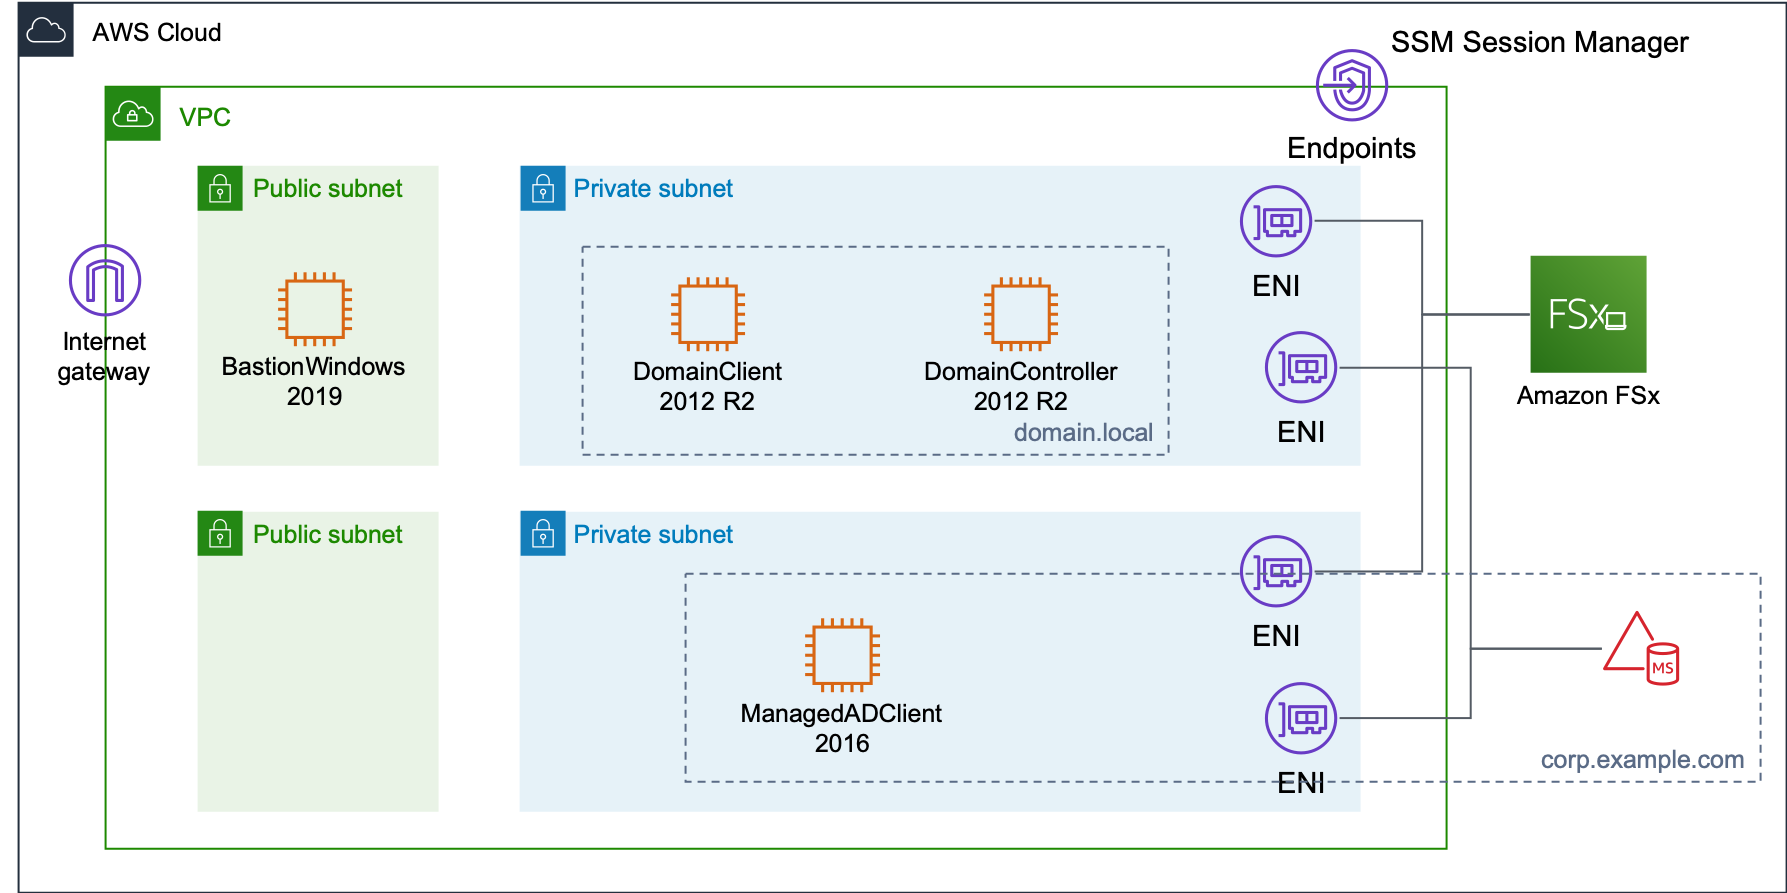
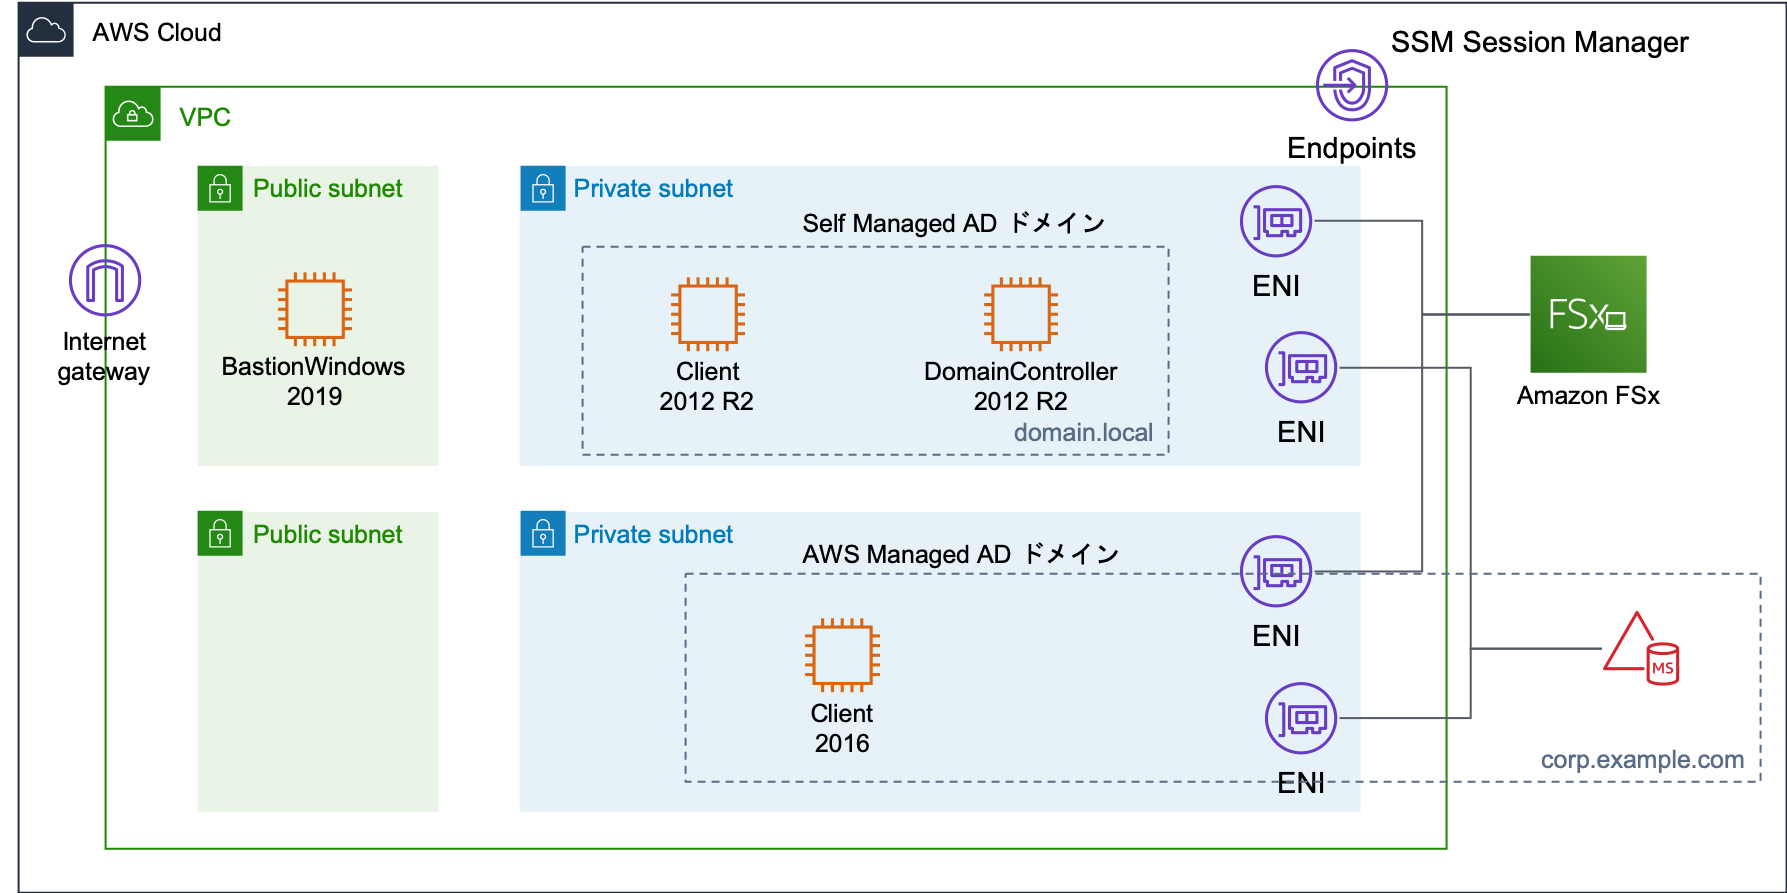
update

diff --git a/cdksample/self_managed_ad_stack.py b/cdksample/self_managed_ad_stack.py
@@ -5,7 +5,7 @@ from aws_cdk import (
 )
 
 
-class LocalDomainStack(core.Stack):
+class SelfManagedADStack(core.Stack):
 
     def __init__(self, scope: core.Construct, id: str, props, **kwargs) -> None:
         super().__init__(scope, id, **kwargs)
@@ -17,29 +17,31 @@ class LocalDomainStack(core.Stack):
         # https://docs.aws.amazon.com/cdk/api/latest/python/aws_cdk.aws_ec2/Instance.html
 
         # ドメインコントローラ用EC2ホスト
-        local_domain_controller_windows = ec2.Instance(
-            self, 'LocalDomainControllerWindows',
+        domain_controller_windows = ec2.Instance(
+            self, 'DomainControllerWindows',
             instance_type=ec2.InstanceType('t3.large'),
-            machine_image=ec2.WindowsImage(version=ec2.WindowsVersion.WINDOWS_SERVER_2012_R2_RTM_JAPANESE_64BIT_BASE),
+            machine_image=ec2.MachineImage.latest_windows(
+                version=ec2.WindowsVersion.WINDOWS_SERVER_2012_R2_RTM_JAPANESE_64BIT_BASE),
             key_name=self.node.try_get_context('key_name'),
             vpc=vpc,
             vpc_subnets=ec2.SubnetSelection(subnet_type=ec2.SubnetType.ISOLATED),
             security_group=internal_sg
         )
-        local_domain_controller_windows.role.add_managed_policy(
+        domain_controller_windows.role.add_managed_policy(
             iam.ManagedPolicy.from_aws_managed_policy_name('AmazonSSMManagedInstanceCore'))
 
         # クライアント用EC2ホスト
-        local_domain_client_windows = ec2.Instance(
-            self, 'LocalDomainClientWindows',
+        client_windows = ec2.Instance(
+            self, 'ClientWindows',
             instance_type=ec2.InstanceType('t3.large'),
-            machine_image=ec2.WindowsImage(version=ec2.WindowsVersion.WINDOWS_SERVER_2012_R2_RTM_JAPANESE_64BIT_BASE),
+            machine_image=ec2.MachineImage.latest_windows(
+                version=ec2.WindowsVersion.WINDOWS_SERVER_2012_R2_RTM_JAPANESE_64BIT_BASE),
             key_name=self.node.try_get_context('key_name'),
             vpc=vpc,
             vpc_subnets=ec2.SubnetSelection(subnet_type=ec2.SubnetType.ISOLATED),
             security_group=internal_sg
         )
-        local_domain_client_windows.role.add_managed_policy(
+        client_windows.role.add_managed_policy(
             iam.ManagedPolicy.from_aws_managed_policy_name('AmazonSSMManagedInstanceCore'))
 
         self.output_props = props.copy()

diff --git a/cdksample/self_managed_ad_fsx_stack.py b/cdksample/self_managed_ad_fsx_stack.py
@@ -5,18 +5,17 @@ from aws_cdk import (
 )
 
 
-class FSxStack(core.Stack):
+class SelfManagedADFSxStack(core.Stack):
 
     def __init__(self, scope: core.Construct, id: str, props, **kwargs) -> None:
         super().__init__(scope, id, **kwargs)
 
         vpc = props['vpc']
         internal_sg = props['internal_sg']
-        managed_ad = props['managed_ad']
 
-        # domain.localに接続するFSx
-        local_domain_fs = fsx.CfnFileSystem(
-            self, 'LocalDomainFileSystem',
+        # Self Managed ADに接続するFSx
+        self_managed_ad_fs = fsx.CfnFileSystem(
+            self, 'SelfManagedADFileSystem',
             file_system_type='WINDOWS',
             subnet_ids=vpc.select_subnets(subnet_type=ec2.SubnetType.ISOLATED).subnet_ids,
             security_group_ids=[internal_sg.security_group_id],
@@ -24,29 +23,14 @@ class FSxStack(core.Stack):
             windows_configuration={
                 "selfManagedActiveDirectoryConfiguration": {
                     "dnsIps": [
-                        self.node.try_get_context('local_domain_controller_ip')
+                        self.node.try_get_context('self_managed_ad')['domain_controller_ip']
                     ],
                     "domainName": "domain.local",
                     "userName": "Administrator",
-                    "password": self.node.try_get_context('local_domain_admin_password')
+                    "password": self.node.try_get_context('self_managed_ad')['admin_password']
                 },
                 "deploymentType": "MULTI_AZ_1",
                 "preferredSubnetId": vpc.select_subnets(subnet_type=ec2.SubnetType.ISOLATED).subnet_ids[0],
-                "throughputCapacity": 8
-            }
-        )
-
-        # Managed ADに接続するFSx
-        managed_ad_fs = fsx.CfnFileSystem(
-            self, 'ManagedADFileSystem',
-            file_system_type='WINDOWS',
-            subnet_ids=vpc.select_subnets(subnet_type=ec2.SubnetType.ISOLATED).subnet_ids,
-            security_group_ids=[internal_sg.security_group_id],
-            storage_capacity=50,
-            windows_configuration={
-                "activeDirectoryId": managed_ad.ref,
-                "deploymentType": "MULTI_AZ_1",
-                "preferredSubnetId": vpc.select_subnets(subnet_type=ec2.SubnetType.ISOLATED).subnet_ids[1],
                 "throughputCapacity": 8
             }
         )

diff --git a/cdksample/aws_managed_ad_stack.py b/cdksample/aws_managed_ad_stack.py
@@ -6,7 +6,7 @@ from aws_cdk import (
 )
 
 
-class ManagedADStack(core.Stack):
+class AWSManagedADStack(core.Stack):
 
     def __init__(self, scope: core.Construct, id: str, props, **kwargs) -> None:
         super().__init__(scope, id, **kwargs)
@@ -15,10 +15,10 @@ class ManagedADStack(core.Stack):
         internal_sg = props['internal_sg']
 
         # Managed AD
-        managed_ad = directoryservice.CfnMicrosoftAD(
-            self, 'ManagedAD',
+        aws_managed_ad = directoryservice.CfnMicrosoftAD(
+            self, 'AWSManagedAD',
             name='corp.example.com',
-            password=self.node.try_get_context('managed_ad_password'),
+            password=self.node.try_get_context('aws_managed_ad')['admin_password'],
             vpc_settings={
               "subnetIds": vpc.select_subnets(subnet_type=ec2.SubnetType.ISOLATED).subnet_ids,
               "vpcId": vpc.vpc_id
@@ -27,20 +27,21 @@ class ManagedADStack(core.Stack):
         )
 
         # クライアント用EC2ホスト
-        managed_ad_client_windows = ec2.Instance(
-            self, 'ManagedADClientWindows',
+        client_windows = ec2.Instance(
+            self, 'ClientWindows',
             instance_type=ec2.InstanceType('t3.large'),
-            machine_image=ec2.WindowsImage(version=ec2.WindowsVersion.WINDOWS_SERVER_2016_JAPANESE_FULL_BASE),
+            machine_image=ec2.MachineImage.latest_windows(
+                version=ec2.WindowsVersion.WINDOWS_SERVER_2016_JAPANESE_FULL_BASE),
             key_name=self.node.try_get_context('key_name'),
             vpc=vpc,
             vpc_subnets=ec2.SubnetSelection(subnet_type=ec2.SubnetType.ISOLATED),
             security_group=internal_sg
         )
-        managed_ad_client_windows.role.add_managed_policy(
+        client_windows.role.add_managed_policy(
             iam.ManagedPolicy.from_aws_managed_policy_name('AmazonSSMManagedInstanceCore'))
 
         self.output_props = props.copy()
-        self.output_props['managed_ad'] = managed_ad
+        self.output_props['aws_managed_ad'] = aws_managed_ad
 
     @property
     def outputs(self):

diff --git a/app.py b/app.py
@@ -4,9 +4,10 @@ from aws_cdk import core
 
 from cdksample.network_stack import NetworkStack
 from cdksample.bastion_stack import BastionStack
-from cdksample.local_domain_stack import LocalDomainStack
-from cdksample.managed_ad_stack import ManagedADStack
-from cdksample.fsx_stack import FSxStack
+from cdksample.self_managed_ad_stack import SelfManagedADStack
+from cdksample.aws_managed_ad_stack import AWSManagedADStack
+from cdksample.self_managed_ad_fsx_stack import SelfManagedADFSxStack
+from cdksample.aws_managed_ad_fsx_stack import AWSManagedADFSxStack
 
 
 app = core.App()
@@ -23,13 +24,16 @@ props = network_stack.outputs
 bastion_windows_stack = BastionStack(app, '{}-BastionStack'.format(prefix), env=env, props=props)
 props = bastion_windows_stack.outputs
 
-local_domain_stack = LocalDomainStack(app, '{}-LocalDomainStack'.format(prefix), env=env, props=props)
-props = local_domain_stack.outputs
+self_managed_ad_stack = SelfManagedADStack(app, '{}-SelfManagedADStack'.format(prefix), env=env, props=props)
+props = self_managed_ad_stack.outputs
 
-managed_ad_stack = ManagedADStack(app, '{}-ManagedADStack'.format(prefix), env=env, props=props)
-props = managed_ad_stack.outputs
+aws_managed_ad_stack = AWSManagedADStack(app, '{}-AWSManagedADStack'.format(prefix), env=env, props=props)
+props = aws_managed_ad_stack.outputs
 
-fsx_stack = FSxStack(app, '{}-FSxStack'.format(prefix), env=env, props=props)
-props = fsx_stack.outputs
+local_domain_fsx_stack = SelfManagedADFSxStack(app, '{}-SelfManagedADFSxStack'.format(prefix), env=env, props=props)
+props = local_domain_fsx_stack.outputs
+
+aws_managed_ad_fsx_stack = AWSManagedADFSxStack(app, '{}-AWSManagedADFSxStack'.format(prefix), env=env, props=props)
+props = aws_managed_ad_fsx_stack.outputs
 
 app.synth()

diff --git a/cdksample/aws_managed_ad_fsx_stack.py b/cdksample/aws_managed_ad_fsx_stack.py
@@ -1,0 +1,35 @@
+from aws_cdk import (
+    core,
+    aws_ec2 as ec2,
+    aws_fsx as fsx
+)
+
+
+class AWSManagedADFSxStack(core.Stack):
+
+    def __init__(self, scope: core.Construct, id: str, props, **kwargs) -> None:
+        super().__init__(scope, id, **kwargs)
+
+        vpc = props['vpc']
+        internal_sg = props['internal_sg']
+
+        # AWS Managed ADに接続するFSx
+        aws_managed_ad_fs = fsx.CfnFileSystem(
+            self, 'AWSManagedADFileSystem',
+            file_system_type='WINDOWS',
+            subnet_ids=vpc.select_subnets(subnet_type=ec2.SubnetType.ISOLATED).subnet_ids,
+            security_group_ids=[internal_sg.security_group_id],
+            storage_capacity=50,
+            windows_configuration={
+                "activeDirectoryId": self.node.try_get_context('aws_managed_ad')['directory_id'],
+                "deploymentType": "MULTI_AZ_1",
+                "preferredSubnetId": vpc.select_subnets(subnet_type=ec2.SubnetType.ISOLATED).subnet_ids[1],
+                "throughputCapacity": 8
+            }
+        )
+
+        self.output_props = props.copy()
+
+    @property
+    def outputs(self):
+        return self.output_props

diff --git a/cdksample/bastion_stack.py b/cdksample/bastion_stack.py
@@ -21,7 +21,8 @@ class BastionStack(core.Stack):
         bastion_windows = ec2.Instance(
             self, 'BastionWindows',
             instance_type=ec2.InstanceType('t3.large'),
-            machine_image=ec2.WindowsImage(version=ec2.WindowsVersion.WINDOWS_SERVER_2019_JAPANESE_FULL_BASE),
+            machine_image=ec2.MachineImage.latest_windows(
+                version=ec2.WindowsVersion.WINDOWS_SERVER_2019_JAPANESE_FULL_BASE),
             key_name=self.node.try_get_context('key_name'),
             vpc=vpc,
             vpc_subnets=ec2.SubnetSelection(subnet_type=ec2.SubnetType.PUBLIC),

diff --git a/README.md b/README.md
@@ -36,8 +36,8 @@ jq --version
 
 ## 確認項目
 
-- Self-Managed AD（domain.local）に参加するWindowsから、Self-Managed AD（domain.local）に接続したFSxをマウントできることを確認する
-- Self-Managed AD（domain.local）に参加するWindowsから、Self-Managed AD（domain.local）と信頼関係を結んだAWS Managed AD（corp.example.com）に接続したFSxをマウントできることを確認する
+- Self Managed AD（domain.local）に参加するWindowsから、Self Managed AD（domain.local）に接続したFSxをマウントできることを確認する
+- Self Managed AD（domain.local）に参加するWindowsから、Self Managed AD（domain.local）と信頼関係を結んだAWS Managed AD（corp.example.com）に接続したFSxをマウントできることを確認する
 
 ## CDKでのベースインフラストラクチャのデプロイ
 
@@ -107,7 +107,7 @@ cdk deploy *LocalDomainStack --require-approval never
 
 `domain.local`のドメインを作成します。
 
-踏み台サーバー（BastionWindows）を経由してドメインコントローラー用のWindows（LocalDomainControllerWindows）にRDPし、PowerShellを起動します。
+踏み台サーバー（BastionWindows）を経由してドメインコントローラー用のWindows（DomainControllerWindows）にRDPし、PowerShellを起動します。
 あるいは、セッションマネージャーでPowerShellを起動します。
 
 ADドメインサービスの機能をインストールします。
@@ -153,7 +153,7 @@ aws ec2 describe-instances | \
            .PrivateIpAddress'
 ```
 
-踏み台サーバーを経由してクライアント用のWindows（LocalDomainClientWindows）にRDPし、PowerShellを起動します。
+踏み台サーバーを経由してクライアント用のWindows（ClientWindows）にRDPし、PowerShellを起動します。
 あるいは、セッションマネージャーでPowerShellを起動します。
 
 DNSを変更します。
@@ -164,7 +164,7 @@ Get-NetAdapter | Set-DnsClientServerAddress -ServerAddresses <ドメインコン
 Get-NetAdapter | Get-DnsClientServerAddress
 ```
 
-ADに参加します。ここで入力するパスワードはマネジメントコンソールでLocalDomainControllerWindowsインスタンスの「接続」から確認します。
+ADに参加します。ここで入力するパスワードはマネジメントコンソールでDomainControllerWindowsインスタンスの「接続」から確認します。
 
 ```
 $user = 'domain.local\Administrator'
@@ -245,27 +245,34 @@ AWS Managed ADのドメインユーザーは`corp.example.com\Admin`です。パ
 
 ## FSxのデプロイ
 
-`cdk.context.json`に`domain.local`のドメインコントローラーのIPアドレスと、`Administrator`ユーザーのパスワードを記載します。
+FSxのファイルシステムを2つデプロイします。AWS Managed ADに接続するファイルシステムはディレクトリのIDが必要です。
+CDK上で取得することもできますが、スタック間の依存を減らしたいので、`cdk.context.json`に記載するようにします。
 
-FSxリソースをデプロイします。
+```
+aws ds describe-directories | \
+  jq -r '.DirectoryDescriptions[] | select( .Name == "corp.example.com" ) | .DirectoryId'
+```
+
+Self Managed ADに接続するファイルシステムにはドメンコントローラーのIPアドレスと、`Administrator`ユーザーのパスワードが必要なので、`cdk.context.json`に記載します。
+
+FSxリソースをデプロイします（かなり時間がかかります）。
 
 ```
 cdk deploy *FSxStack --require-approval never
 ```
 
-## ドメインユーザーのRDPの許可
-
-
-
 ## domain.localのマウント確認
 
-DNS名を確認します。
+- Self Managed AD（domain.local）に参加するWindowsから、Self Managed AD（domain.local）に接続したFSxをマウントできることを確認する
+- Self Managed AD（domain.local）に参加するWindowsから、Self Managed AD（domain.local）と信頼関係を結んだAWS Managed AD（corp.example.com）に接続したFSxをマウントできることを確認する
+
+ファイルシステムのDNS名を確認します。
 
 ```
 aws fsx describe-file-systems | \
   jq -r '.FileSystems[] |
            select( .Tags ) | 
-           select( [ select( .Tags[].Value | test("LocalDomainFileSystem") ) ] | length > 0 ) | 
+           select( [ select( .Tags[].Value | test("SelfManagedADFileSystem") ) ] | length > 0 ) | 
            .DNSName'
 ```
 
@@ -277,8 +284,8 @@ RDPで接続し、ネットワークドライブを割り当てます。
 
 ```
 Get-ADUser -Filter *
-$user = 'test'
-$password = ConvertTo-SecureString -AsPlainText 'Password99!' -Force
+$user = '<ユーザー名>'
+$password = ConvertTo-SecureString -AsPlainText '<パスワード>' -Force
 New-ADUser $user -AccountPassword $password
 ```
 

diff --git a/memo.md b/memo.md
@@ -1,0 +1,14 @@
+# 調査メモ
+
+## モニタリング
+
+- [Monitoring Amazon FSx for Windows File Server](https://docs.aws.amazon.com/fsx/latest/WindowsGuide/monitoring_overview.html)
+
+存在するメトリクスは以下なので、容量を監視して通知はできそう。
+
+- DataReadBytes	
+- DataWriteBytes
+- DataReadOperations
+- DataWriteOperations
+- MetadataOperations
+- FreeStorageCapacity
